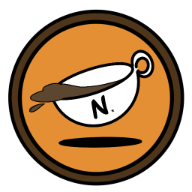
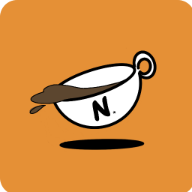
更换logo 调整header

diff --git a/src/components/layouts/TheHeader.vue b/src/components/layouts/TheHeader.vue
@@ -2,10 +2,14 @@
   <nav class="navbar">
     <div class="logo">
       <a href="/">
-        <img
+        <!-- <img
           src="https://nic-gz-1308403500.file.myqcloud.com/other/TheHeader-2022-07-17-00-51-14.PNG"
           style="width: 42px"
+        /> -->
+        <img
+          src="https://nic-gz-1308403500.file.myqcloud.com/other/TheHeader-2022-07-21-20-35-11.png"
         />
+        <span>Nic's Profile</span>
       </a>
     </div>
     <div class="menu">
@@ -81,16 +85,34 @@ li {
   flex-flow: row nowrap;
   justify-content: space-between;
   z-index: 999;
-}
-.logo {
-  width: 40px;
-  height: 40px;
-  float: left;
-  margin: auto 1rem;
-}
 
-.logo img {
-  border-radius: 4px;
+  .logo {
+    width: 40px;
+    height: 40px;
+    float: left;
+    margin: auto 1rem;
+    a {
+      display: flex;
+      text-decoration: none;
+
+      img {
+        border-radius: 4px;
+        width: 40px;
+        border-radius: 20px;
+        display: inline-block;
+      }
+      span {
+        font-family: "Trebuchet MS", "Lucida Sans Unicode", "Lucida Grande",
+          "Lucida Sans", Arial, sans-serif;
+        font-weight: 600;
+        margin-left: 0.5rem;
+        min-width: 150px;
+        line-height: 40px;
+        font-size: 20px;
+        color: #383838;
+      }
+    }
+  }
 }
 
 .sandwich {

diff --git a/src/components/pages/ContactMe.vue b/src/components/pages/ContactMe.vue
@@ -37,28 +37,20 @@
               </a>
               <a
                 target="_blank"
-                href="https://www.facebook.com/nicoletian07/"
-                title="facebook.com/nicoletian07/"
+                href="https://www.facebook.com"
+                title="Facebook"
               >
                 <svg aria-hidden="true" class="icon">
                   <use xlink:href="#social-icon-facebook-fill"></use>
                 </svg>
               </a>
-              <a
-                target="_blank"
-                href="https://www.douban.com/people/ph1lia/"
-                title="(deprecated)"
-              >
+              <a target="_blank" href="https://www.douban.com" title="Douban">
                 <svg aria-hidden="true" class="icon">
                   <use xlink:href="#social-icon-snssharedoubanon"></use>
                 </svg>
               </a>
 
-              <a
-                target="_blank"
-                href="https://weibo.com/u/1751799503"
-                title="笠原喂鴨"
-              >
+              <a target="_blank" href="https://weibo.com/" title="Weibo">
                 <svg aria-hidden="true" class="icon">
                   <use xlink:href="#social-icon-weibo1"></use>
                 </svg>
